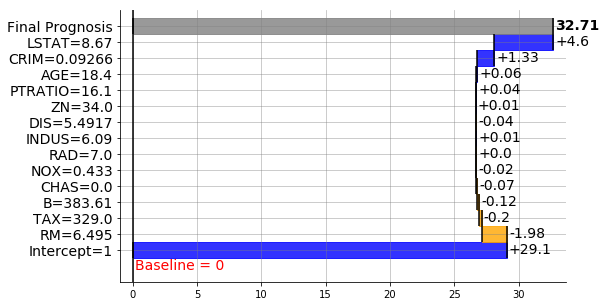
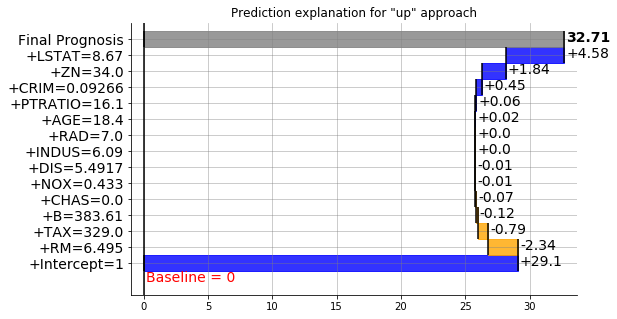
add direction information to explanations

Changed region(s): [[0.0, 0.0294, 1.0, 0.9706]]

diff --git a/pyBreakDown/explanation.py b/pyBreakDown/explanation.py
@@ -1,10 +1,15 @@
 import numpy as np
 from collections import deque
+from enum import Enum
 from recordclass import recordclass
 import matplotlib.patches as patches
 from matplotlib import pyplot as plt
 
 AttrInfo = recordclass("AttrInfo",["name","value","contribution","cumulative"])
+
+class ExplainerDirection (Enum):
+    Up=1
+    Down=2
 
 class Explanation:
     """
@@ -13,7 +18,8 @@ class Explanation:
     _INTERCEPT_NAME = "Intercept"
     _INTERCEPT_VALUE = 1
 
-    def __init__ (self, variable_names, variable_values, contributions):
+    def __init__ (self, variable_names, variable_values, contributions, direction):
+        self._direction = direction
         self._attributes = deque()
         csum = 0
         for (name, value, contribution) in zip(variable_names, variable_values, contributions):
@@ -114,7 +120,8 @@ class Explanation:
 
         ax.set_yticks(positions[1:])
         ax.grid(color="gray",alpha=0.5)
-        labels=["=".join([attr.name,str(attr.value)]) for attr in self._attributes]+["Final Prognosis"]
+        sign = "+" if self._direction==ExplainerDirection.Up else "-"
+        labels=[sign + "=".join([attr.name,str(attr.value)]) for attr in self._attributes]+["Final Prognosis"]
         ax.set_yticklabels(labels,size=fontsize)
         
         all_cumulative = [attr.cumulative for attr in self._attributes]
@@ -127,6 +134,8 @@ class Explanation:
         ax.set_ylim(-1,len(self._attributes)+2)
         ax.spines['right'].set_visible(False)
         ax.spines['top'].set_visible(False)
+        approach = "\"up\"" if self._direction==ExplainerDirection.Up else "\"down\""
+        plt.title("Prediction explanation for "+approach+" approach")
 
         #fig.tight_layout(pad=0, w_pad=0, h_pad=0.0)
         #fig.subplots_adjust(hspace=0, wspace=0.1)

diff --git a/pyBreakDown/explainer.py b/pyBreakDown/explainer.py
@@ -108,7 +108,7 @@ class Explainer:
         means = self._get_means_from_yhats(important_yhats)
         means.appendleft(baseline_yhat)
         contributions = np.diff(means)
-        return e.Explanation(var_names, var_values, contributions)
+        return e.Explanation(var_names, var_values, contributions, e.ExplainerDirection.Up)
 
     def _explain_down (self, observation, baseline, data):
         new_data = self._get_initial_dataset(observation, data)
@@ -143,7 +143,7 @@ class Explainer:
         means.reverse()
         contributions = np.diff(means)
         
-        return e.Explanation(var_names, var_values, contributions)
+        return e.Explanation(var_names, var_values, contributions, e.ExplainerDirection.Down)
 
     def _get_means_from_yhats (self, important_yhats):
         return deque([np.array(v).mean() for k,v in important_yhats.items()])
